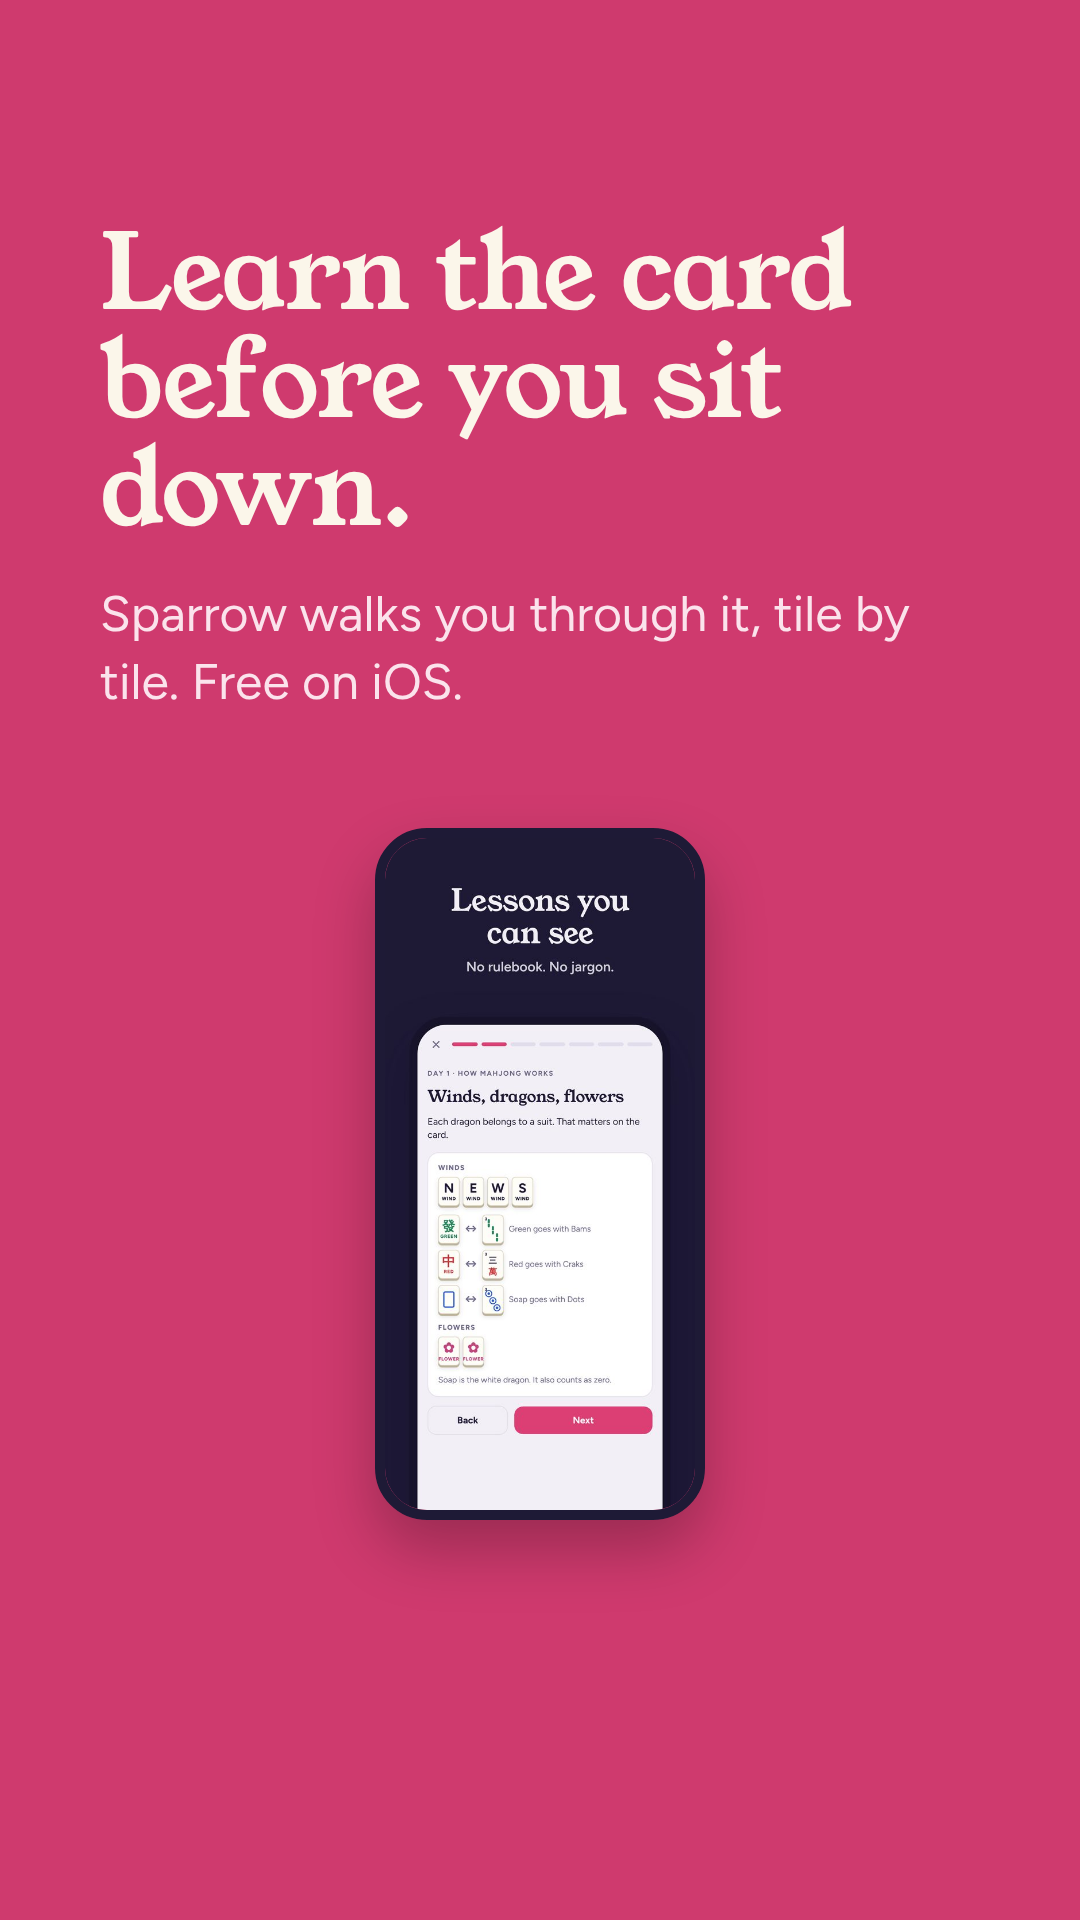
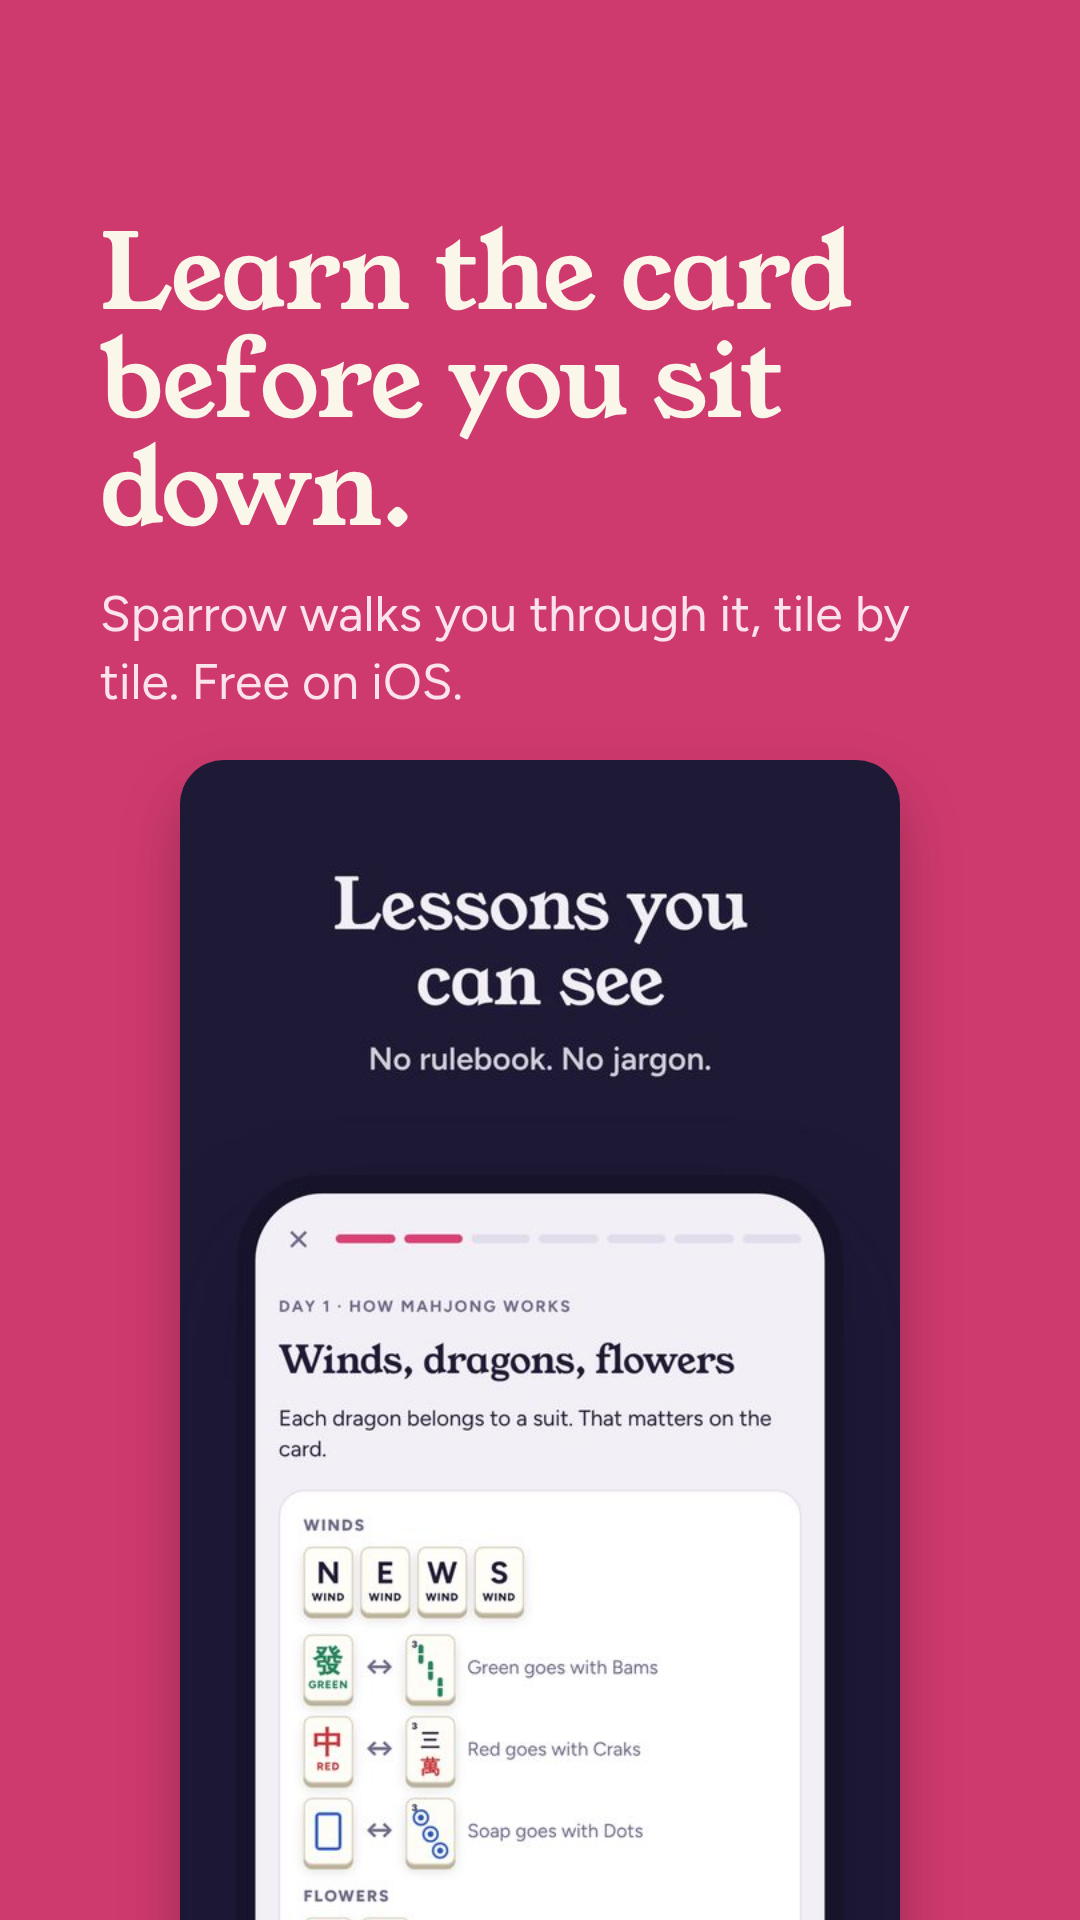
TikTok: wider CTA screenshot on slide 7
Claude-Session: https://claude.ai/code/session_01M8hPFKT7pEWma3u36phKCY

diff --git a/tiktok/01.html b/tiktok/01.html
@@ -21,7 +21,7 @@ p{font-size:50px;line-height:1.35;margin-top:44px;color:#4A4460;max-width:860px}
 .arr{display:flex;gap:22px;margin-top:100px}
 .arr div{background:#1E1A36;color:#FBF6EA;border-radius:999px;padding:30px 44px;font-size:48px;font-weight:800}
 .bird{position:absolute;right:110px;top:150px;width:130px;border-radius:30px}
-.phone{position:absolute;left:50%;transform:translateX(-50%);bottom:400px;width:330px;border-radius:52px;border:10px solid #1E1A36;box-shadow:0 30px 60px rgba(0,0,0,.25)}
+.phone{position:absolute;left:50%;transform:translateX(-50%);top:760px;width:720px;border-radius:44px;border:none;box-shadow:0 30px 60px rgba(0,0,0,.25)}
 .cards{display:flex;gap:20px;margin-top:90px}
 .cd{width:250px;height:150px;border-radius:18px;background:#fff;border:3px solid #E2DCEA;display:flex;align-items:center;justify-content:center;font-size:40px;font-weight:800}
 </style></head><body>

diff --git a/tiktok/02.html b/tiktok/02.html
@@ -22,7 +22,7 @@ p{font-size:50px;line-height:1.35;margin-top:44px;color:#4A4460;max-width:860px}
 .arr{display:flex;gap:22px;margin-top:100px}
 .arr div{background:#1E1A36;color:#FBF6EA;border-radius:999px;padding:30px 44px;font-size:48px;font-weight:800}
 .bird{position:absolute;right:110px;top:150px;width:130px;border-radius:30px}
-.phone{position:absolute;left:50%;transform:translateX(-50%);bottom:400px;width:330px;border-radius:52px;border:10px solid #1E1A36;box-shadow:0 30px 60px rgba(0,0,0,.25)}
+.phone{position:absolute;left:50%;transform:translateX(-50%);top:760px;width:720px;border-radius:44px;border:none;box-shadow:0 30px 60px rgba(0,0,0,.25)}
 .cards{display:flex;gap:20px;margin-top:90px}
 .cd{width:250px;height:150px;border-radius:18px;background:#fff;border:3px solid #E2DCEA;display:flex;align-items:center;justify-content:center;font-size:40px;font-weight:800}
 </style></head><body>

diff --git a/tiktok/03.html b/tiktok/03.html
@@ -22,7 +22,7 @@ p{font-size:50px;line-height:1.35;margin-top:44px;color:#4A4460;max-width:860px}
 .arr{display:flex;gap:22px;margin-top:100px}
 .arr div{background:#1E1A36;color:#FBF6EA;border-radius:999px;padding:30px 44px;font-size:48px;font-weight:800}
 .bird{position:absolute;right:110px;top:150px;width:130px;border-radius:30px}
-.phone{position:absolute;left:50%;transform:translateX(-50%);bottom:400px;width:330px;border-radius:52px;border:10px solid #1E1A36;box-shadow:0 30px 60px rgba(0,0,0,.25)}
+.phone{position:absolute;left:50%;transform:translateX(-50%);top:760px;width:720px;border-radius:44px;border:none;box-shadow:0 30px 60px rgba(0,0,0,.25)}
 .cards{display:flex;gap:20px;margin-top:90px}
 .cd{width:250px;height:150px;border-radius:18px;background:#fff;border:3px solid #E2DCEA;display:flex;align-items:center;justify-content:center;font-size:40px;font-weight:800}
 </style></head><body>

diff --git a/tiktok/r.js b/tiktok/r.js
@@ -1,2 +1,2 @@
 const {chromium}=require('playwright');const n=process.argv[2];(async()=>{const b=await chromium.launch();const p=await b.newPage({viewport:{width:1080,height:1920}});await p.goto('file://'+process.cwd()+'/'+n+'.html');await p.waitForTimeout(500);
-for(let i=1;i<=7;i++){await (await p.$('#s'+i)).screenshot({path:'/mnt/user-data/outputs/sparrow-'+n+'-slide-'+i+'.png'})}await b.close()})()
+for(let i=1;i<=7;i++){await (await p.$('#s'+i)).screenshot({path:'out/sparrow-'+n+'-slide-'+i+'.png'})}await b.close()})()
